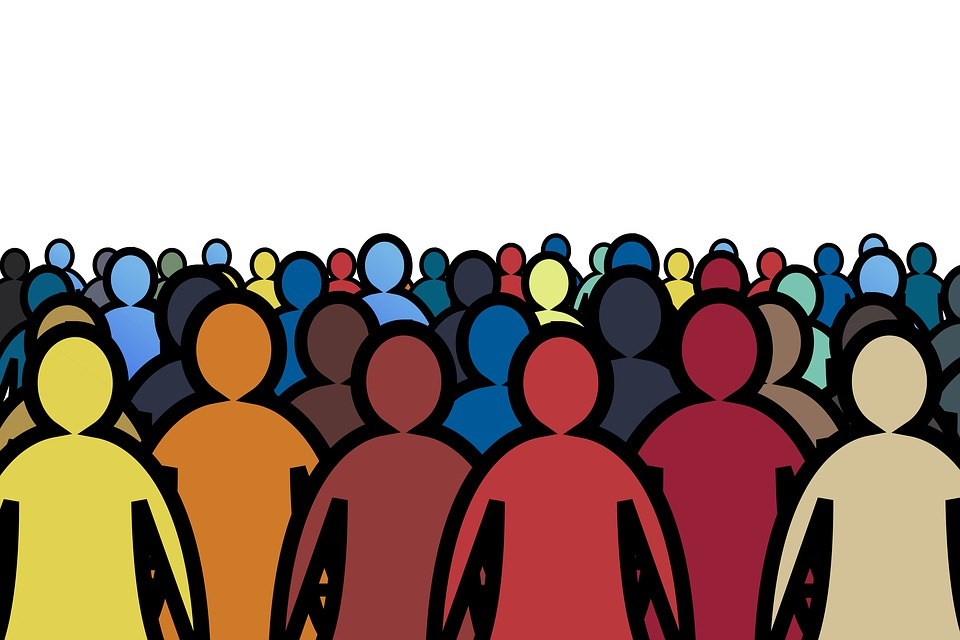
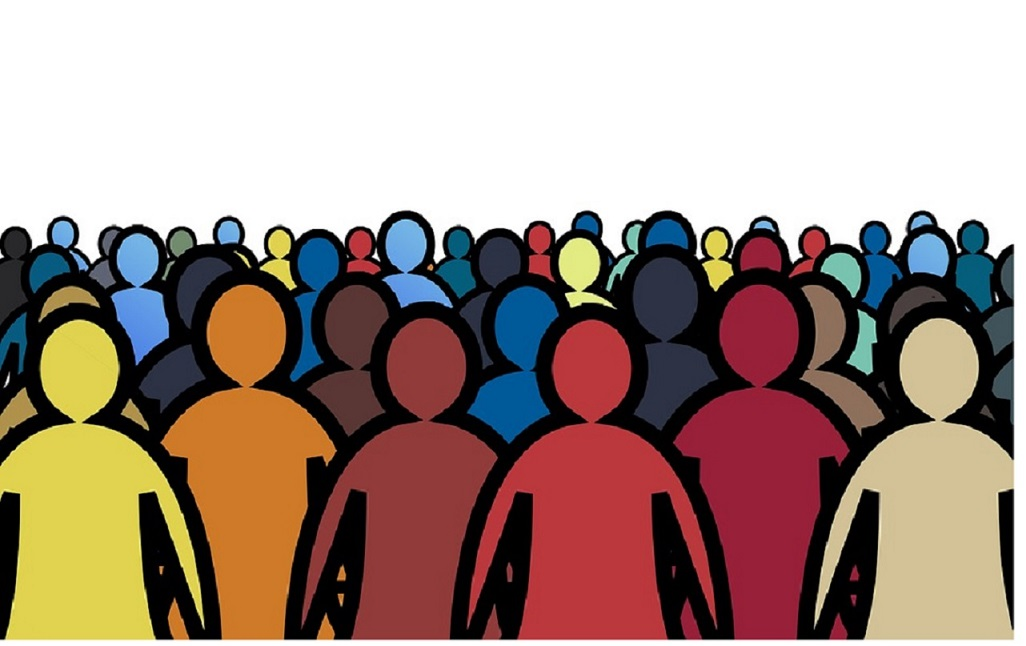
start page ready

Changed region(s): [[0.0, 0.3125, 1.0, 1.0]]

diff --git a/app/views/home.html b/app/views/home.html
@@ -1,10 +1,23 @@
-<object>
-    <img src="../styles/images/menschenmenge.jpg" style="width: 90%">
-</object>
-<div class="jumbotron" style="background: rgb(255, 255, 255); background: rgba(255, 255, 255, 0.7); padding: 10px">
-    <p>Modern satellite-based Earth observation data is a valuable source for monitoring and modeling global environmental phenomena.</p>
-    </br>
-    <p>GISCoLab was designed to allow users to write analysis scripts in an easy-to-use web interface, to access available data sets, to have analyzes calculated by a data management and analysis software, to display results and to work togehter with other scientists.</p>
-    </br>
-    <p>Join the movement and get your free account now!</p>
+<body>
+<div class="col-xs-1"></div>
+<div>
+    <object>
+        <img src="../styles/images/Crowdspy.png" style="width: 70%; align-items: center; padding-top: 1cm; padding-left: 5cm">
+    </object>
 </div>
+<div class="col-xs-10">
+    <div class="container" style="width: 100%; padding-top: 9cm; padding-left: 5cm">
+<div class="jumbotron" style="background: rgb(255, 255, 255); background: rgba(255, 255, 255, 0.7); padding-left: 2cm">
+            <p style="font-size: medium">CrowdSpy is a Web-Service which utilises gamification approaches to derive crowd pattern from aerial images of major events.
+            <br>
+                <br>
+            CrowdSpy uses Crowdsourcing to collect data about crowds of people like density, quantity or the direction of movement. <br>The data then will be used for machine leraning to help computers to identify these parameters on their own.
+            <br>
+                <br>
+            Help to generate good data and play the game!</p>
+</div>
+    </div>
+</div>
+<div class="col-xs-1"></div>
+</body>
+<link rel="stylesheet" href="../styles/css/background.css"/>

diff --git a/app/styles/css/background.css b/app/styles/css/background.css
@@ -1,0 +1,54 @@
+body {
+    background-image: url("../images/menschenmenge.jpg");
+    background-color: #cccccc;
+    background-repeat: no-repeat;
+    align-items: center;
+    background-size: cover;
+}
+p {
+    font-size: small;
+}
+
+
+.jumbotroncurrent {
+    padding-top: 10px;
+    padding-bottom: 10px;
+    color: inherit;
+    background-color: #eee;
+}
+.jumbotroncurrent h1,
+.jumbotroncurrent .h1 {
+    color: inherit;
+}
+.jumbotroncurrent p {
+    font-size: small;
+}
+.jumbotroncurrent > hr {
+    border-top-color: #d5d5d5;
+}
+.container .jumbotroncurrent,
+.container-fluid .jumbotroncurrent {
+    padding-right: 15px;
+    padding-left: 15px;
+    border-radius: 6px;
+}
+.jumbotroncurrent .container {
+    max-width: 100%;
+}
+@media screen and (min-width: 768px) {
+    .jumbotroncurrent {
+        padding-top: 10px;
+        padding-bottom: 10px;
+    }
+
+    .container .jumbotroncurrent,
+    .container-fluid .jumbotroncurrent {
+        padding-right: 60px;
+        padding-left: 60px;
+    }
+
+    .jumbotroncurrent h1,
+    .jumbotroncurrent .h1 {
+        font-size: small;
+    }
+}
